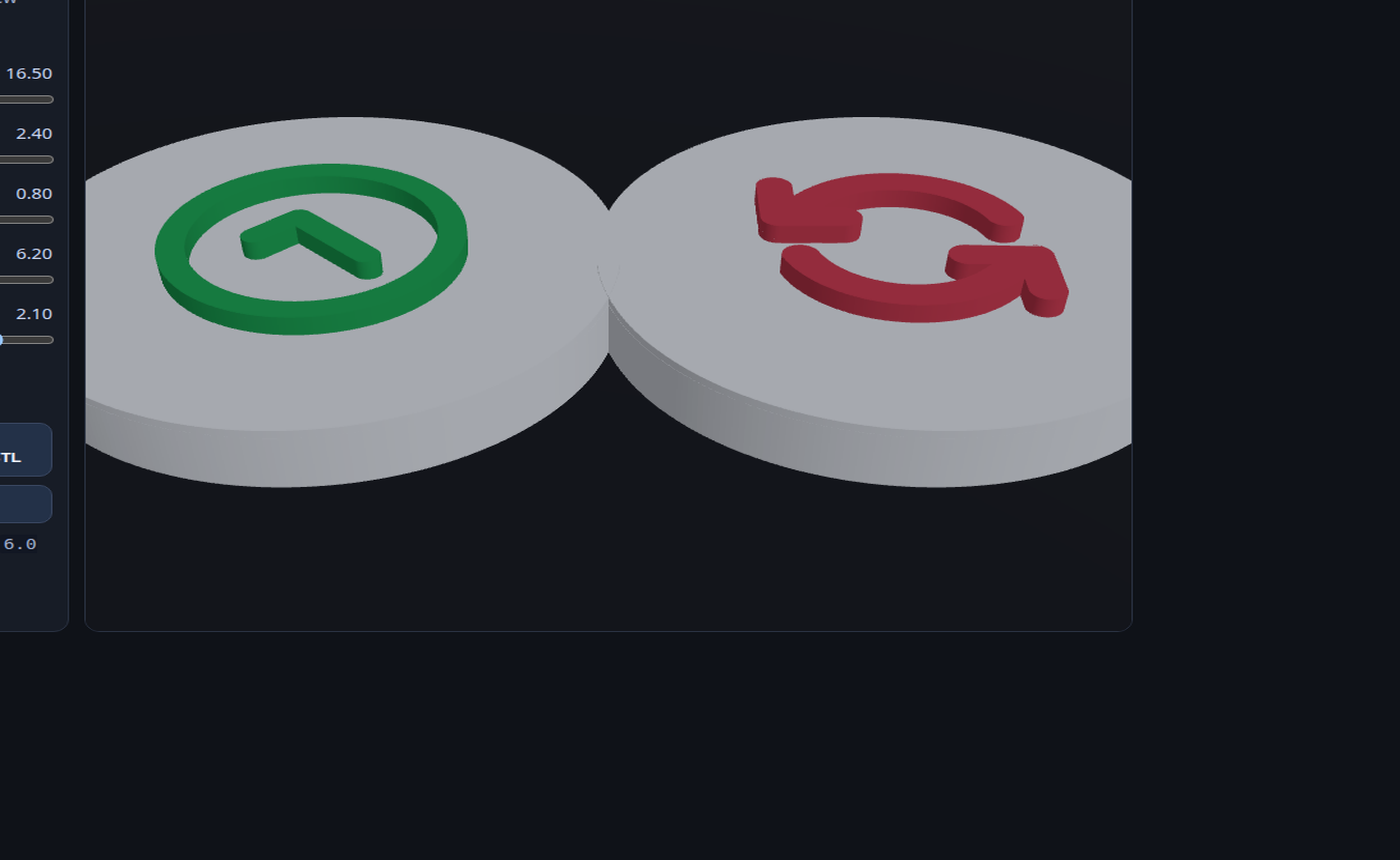
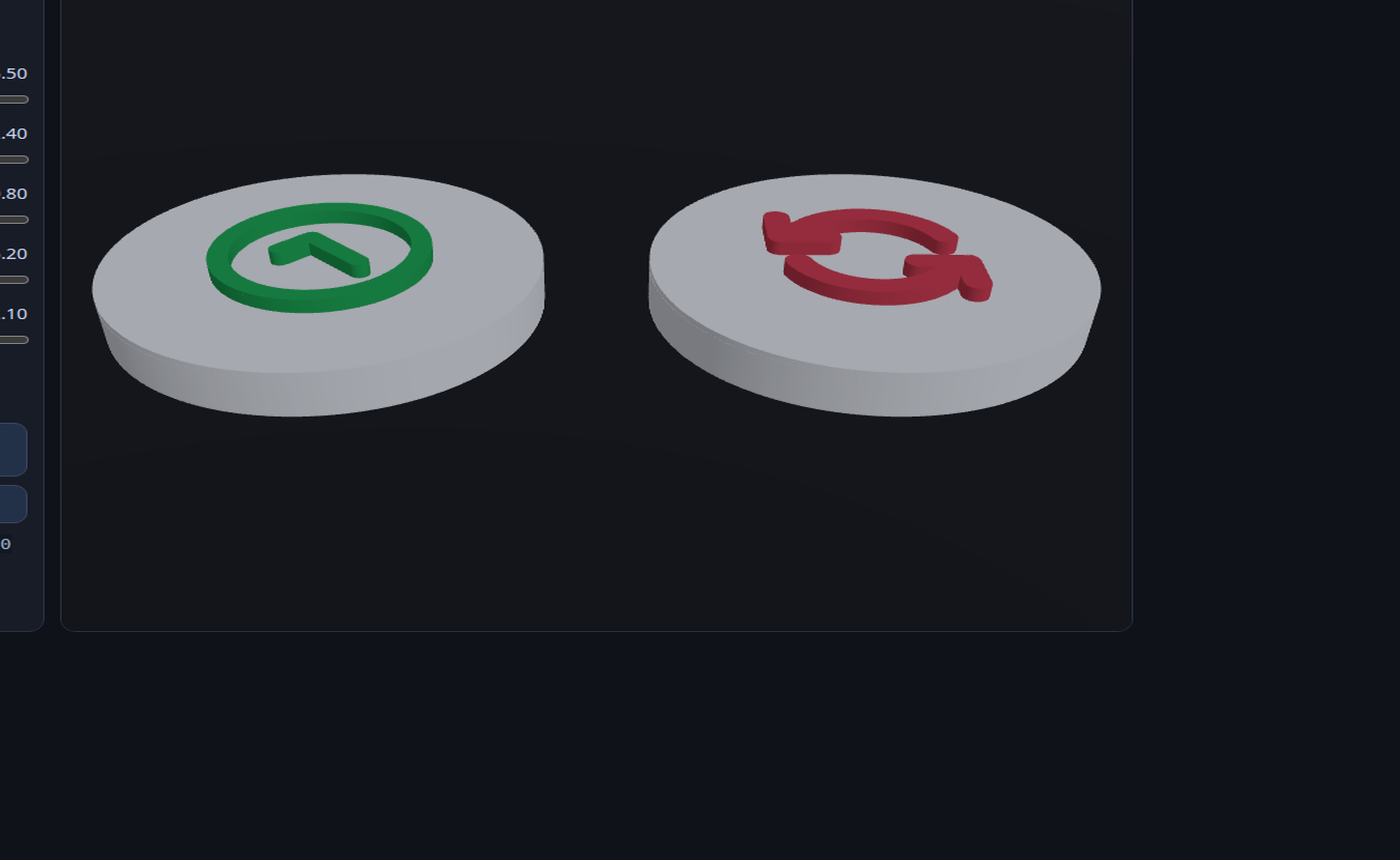
Fix marker spacing to prevent touching and refresh preview

Changed region(s): [[0.0, 0.0605, 0.8293, 0.6349]]

diff --git a/web/x1c-marker-customizer/index.html b/web/x1c-marker-customizer/index.html
@@ -159,8 +159,8 @@
     };
 
     const scene = new THREE.Scene();
-    const camera = new THREE.PerspectiveCamera(28, 1, 0.1, 1000);
-    camera.position.set(0, 31, 36);
+    const camera = new THREE.PerspectiveCamera(34, 1, 0.1, 1000);
+    camera.position.set(0, 32, 44);
 
     const view = el('view');
     const renderer = new THREE.WebGLRenderer({ antialias: true });
@@ -316,9 +316,11 @@
       doneGroup.add(...doneBase.children);
       progressGroup.add(...progBase.children);
 
-      doneGroup.position.x = -p.d * 0.48;
+      // keep clear air-gap between tokens (no touching/merging)
+      const centerOffset = p.d * 0.62;
+      doneGroup.position.x = -centerOffset;
       doneGroup.position.z = 0;
-      progressGroup.position.x = p.d * 0.48;
+      progressGroup.position.x = centerOffset;
       progressGroup.position.z = 0;
 
       addDoneIcon(doneGroup, p);
